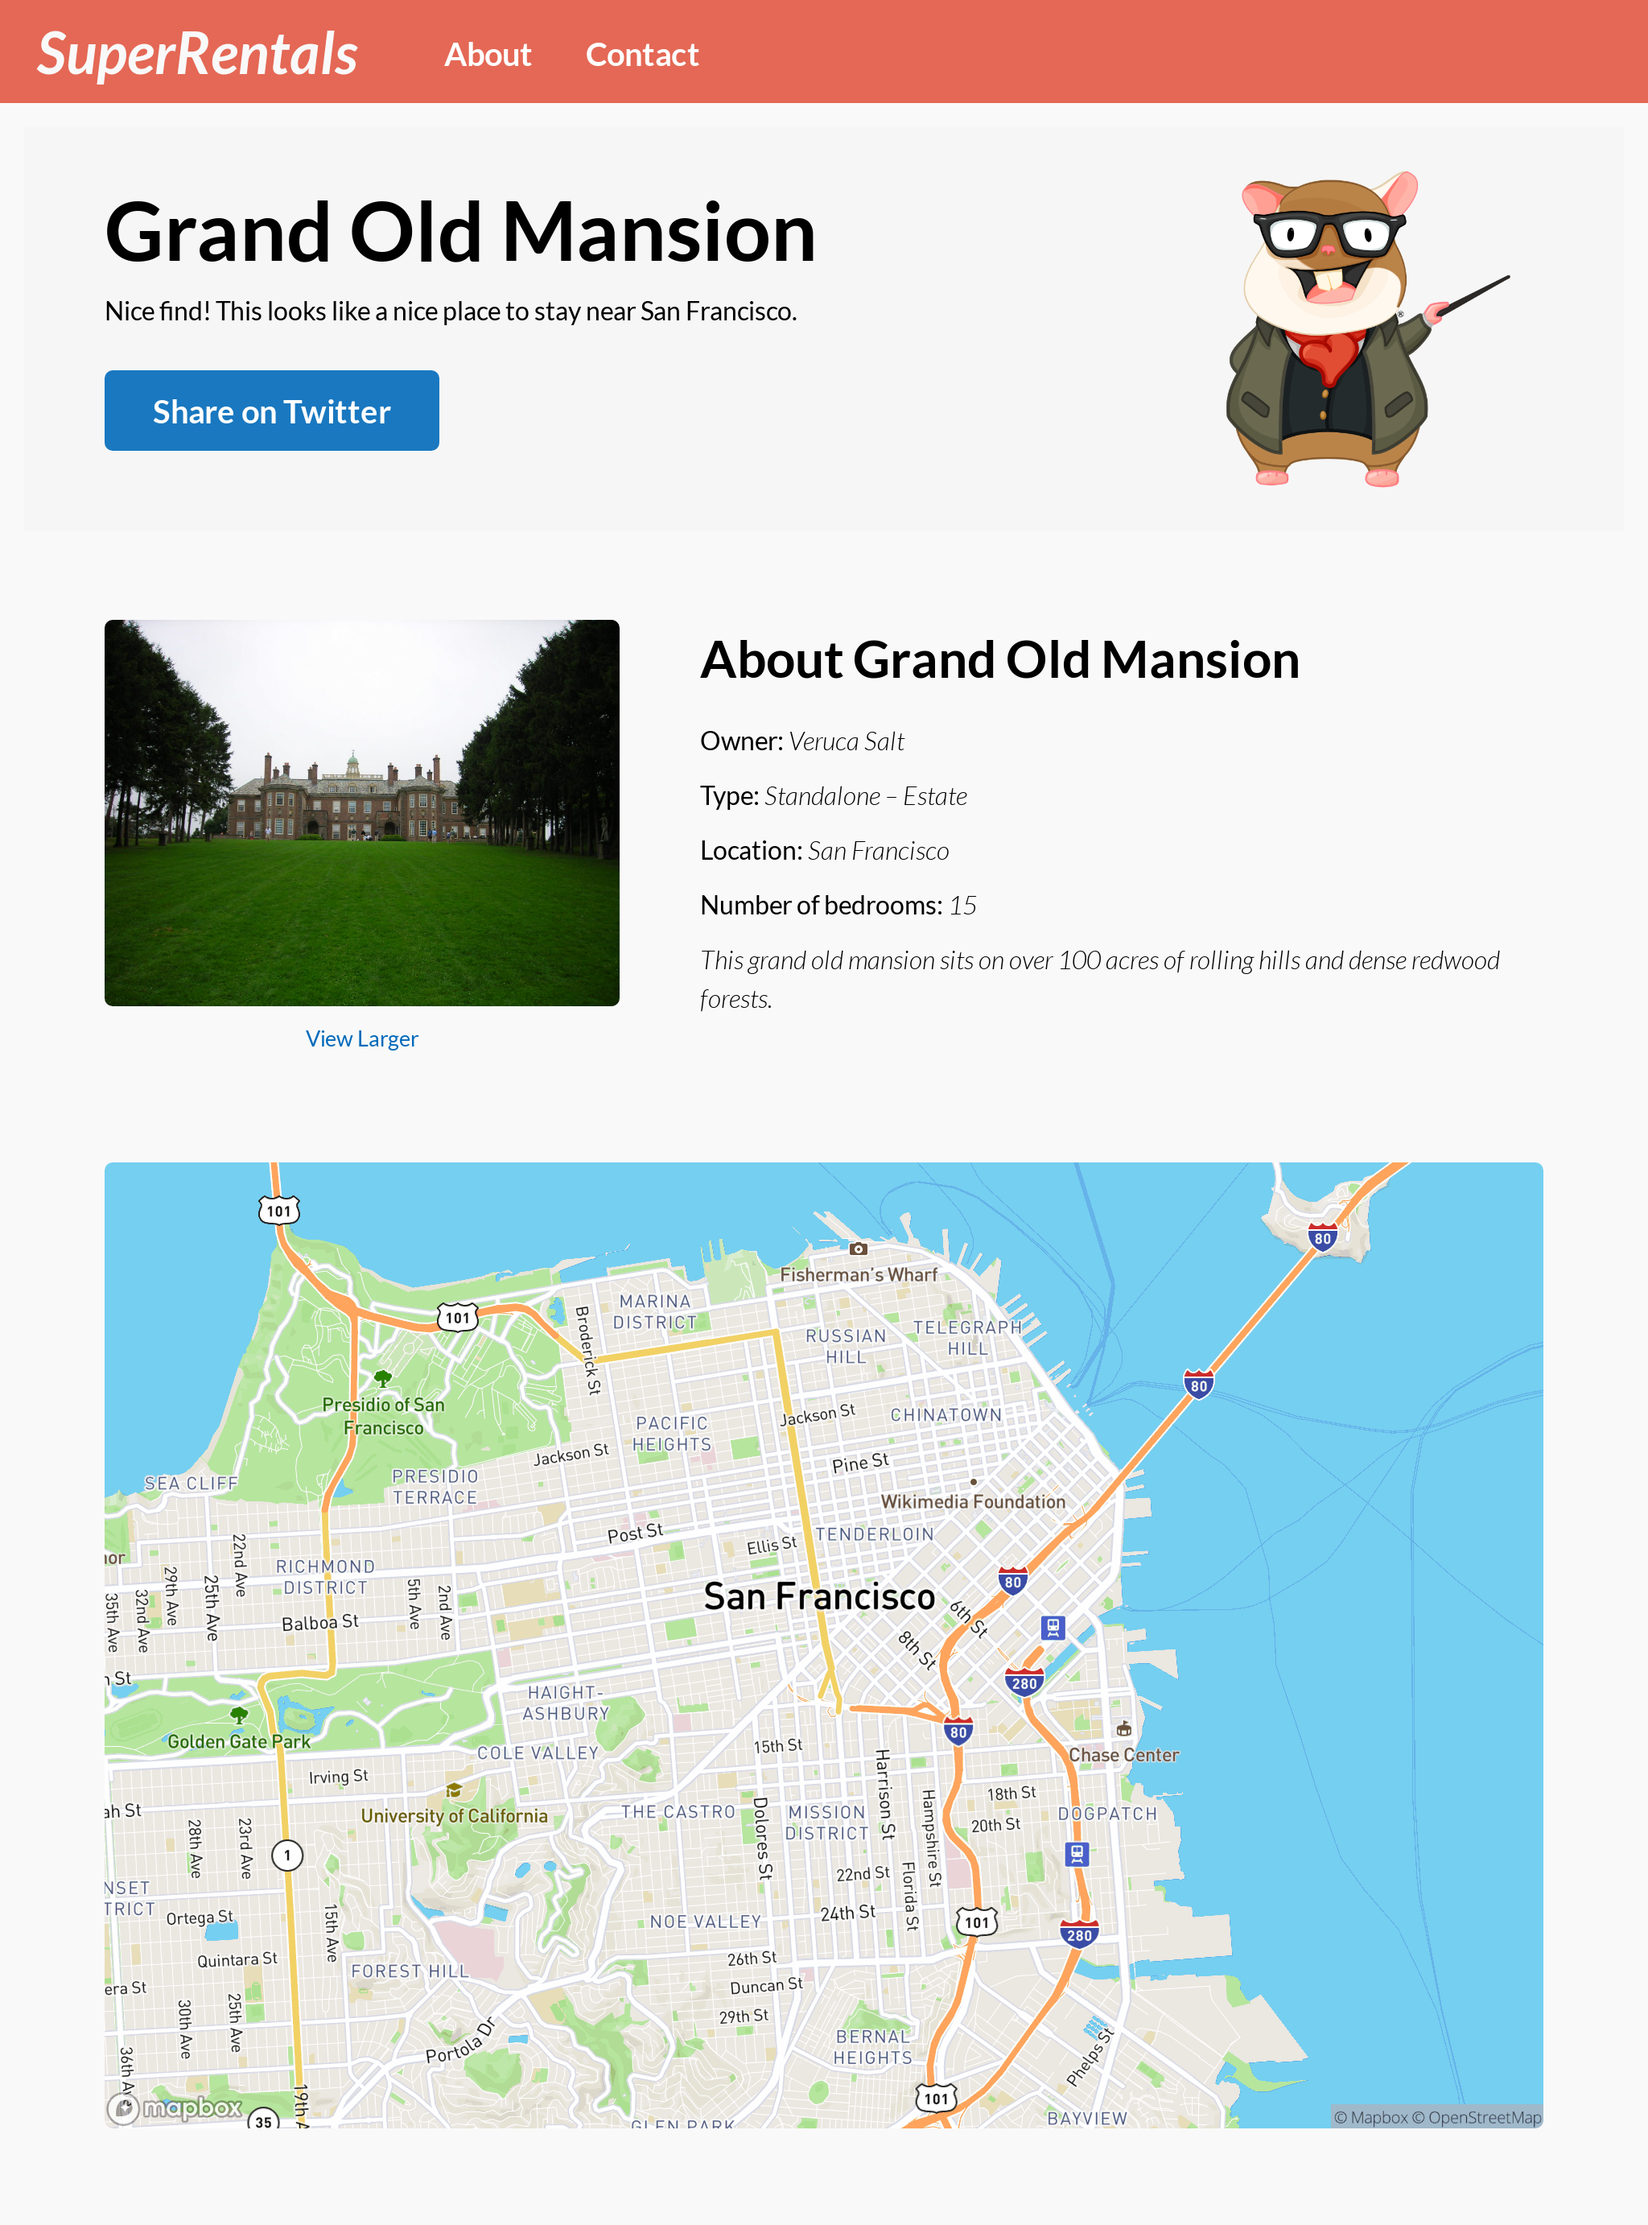
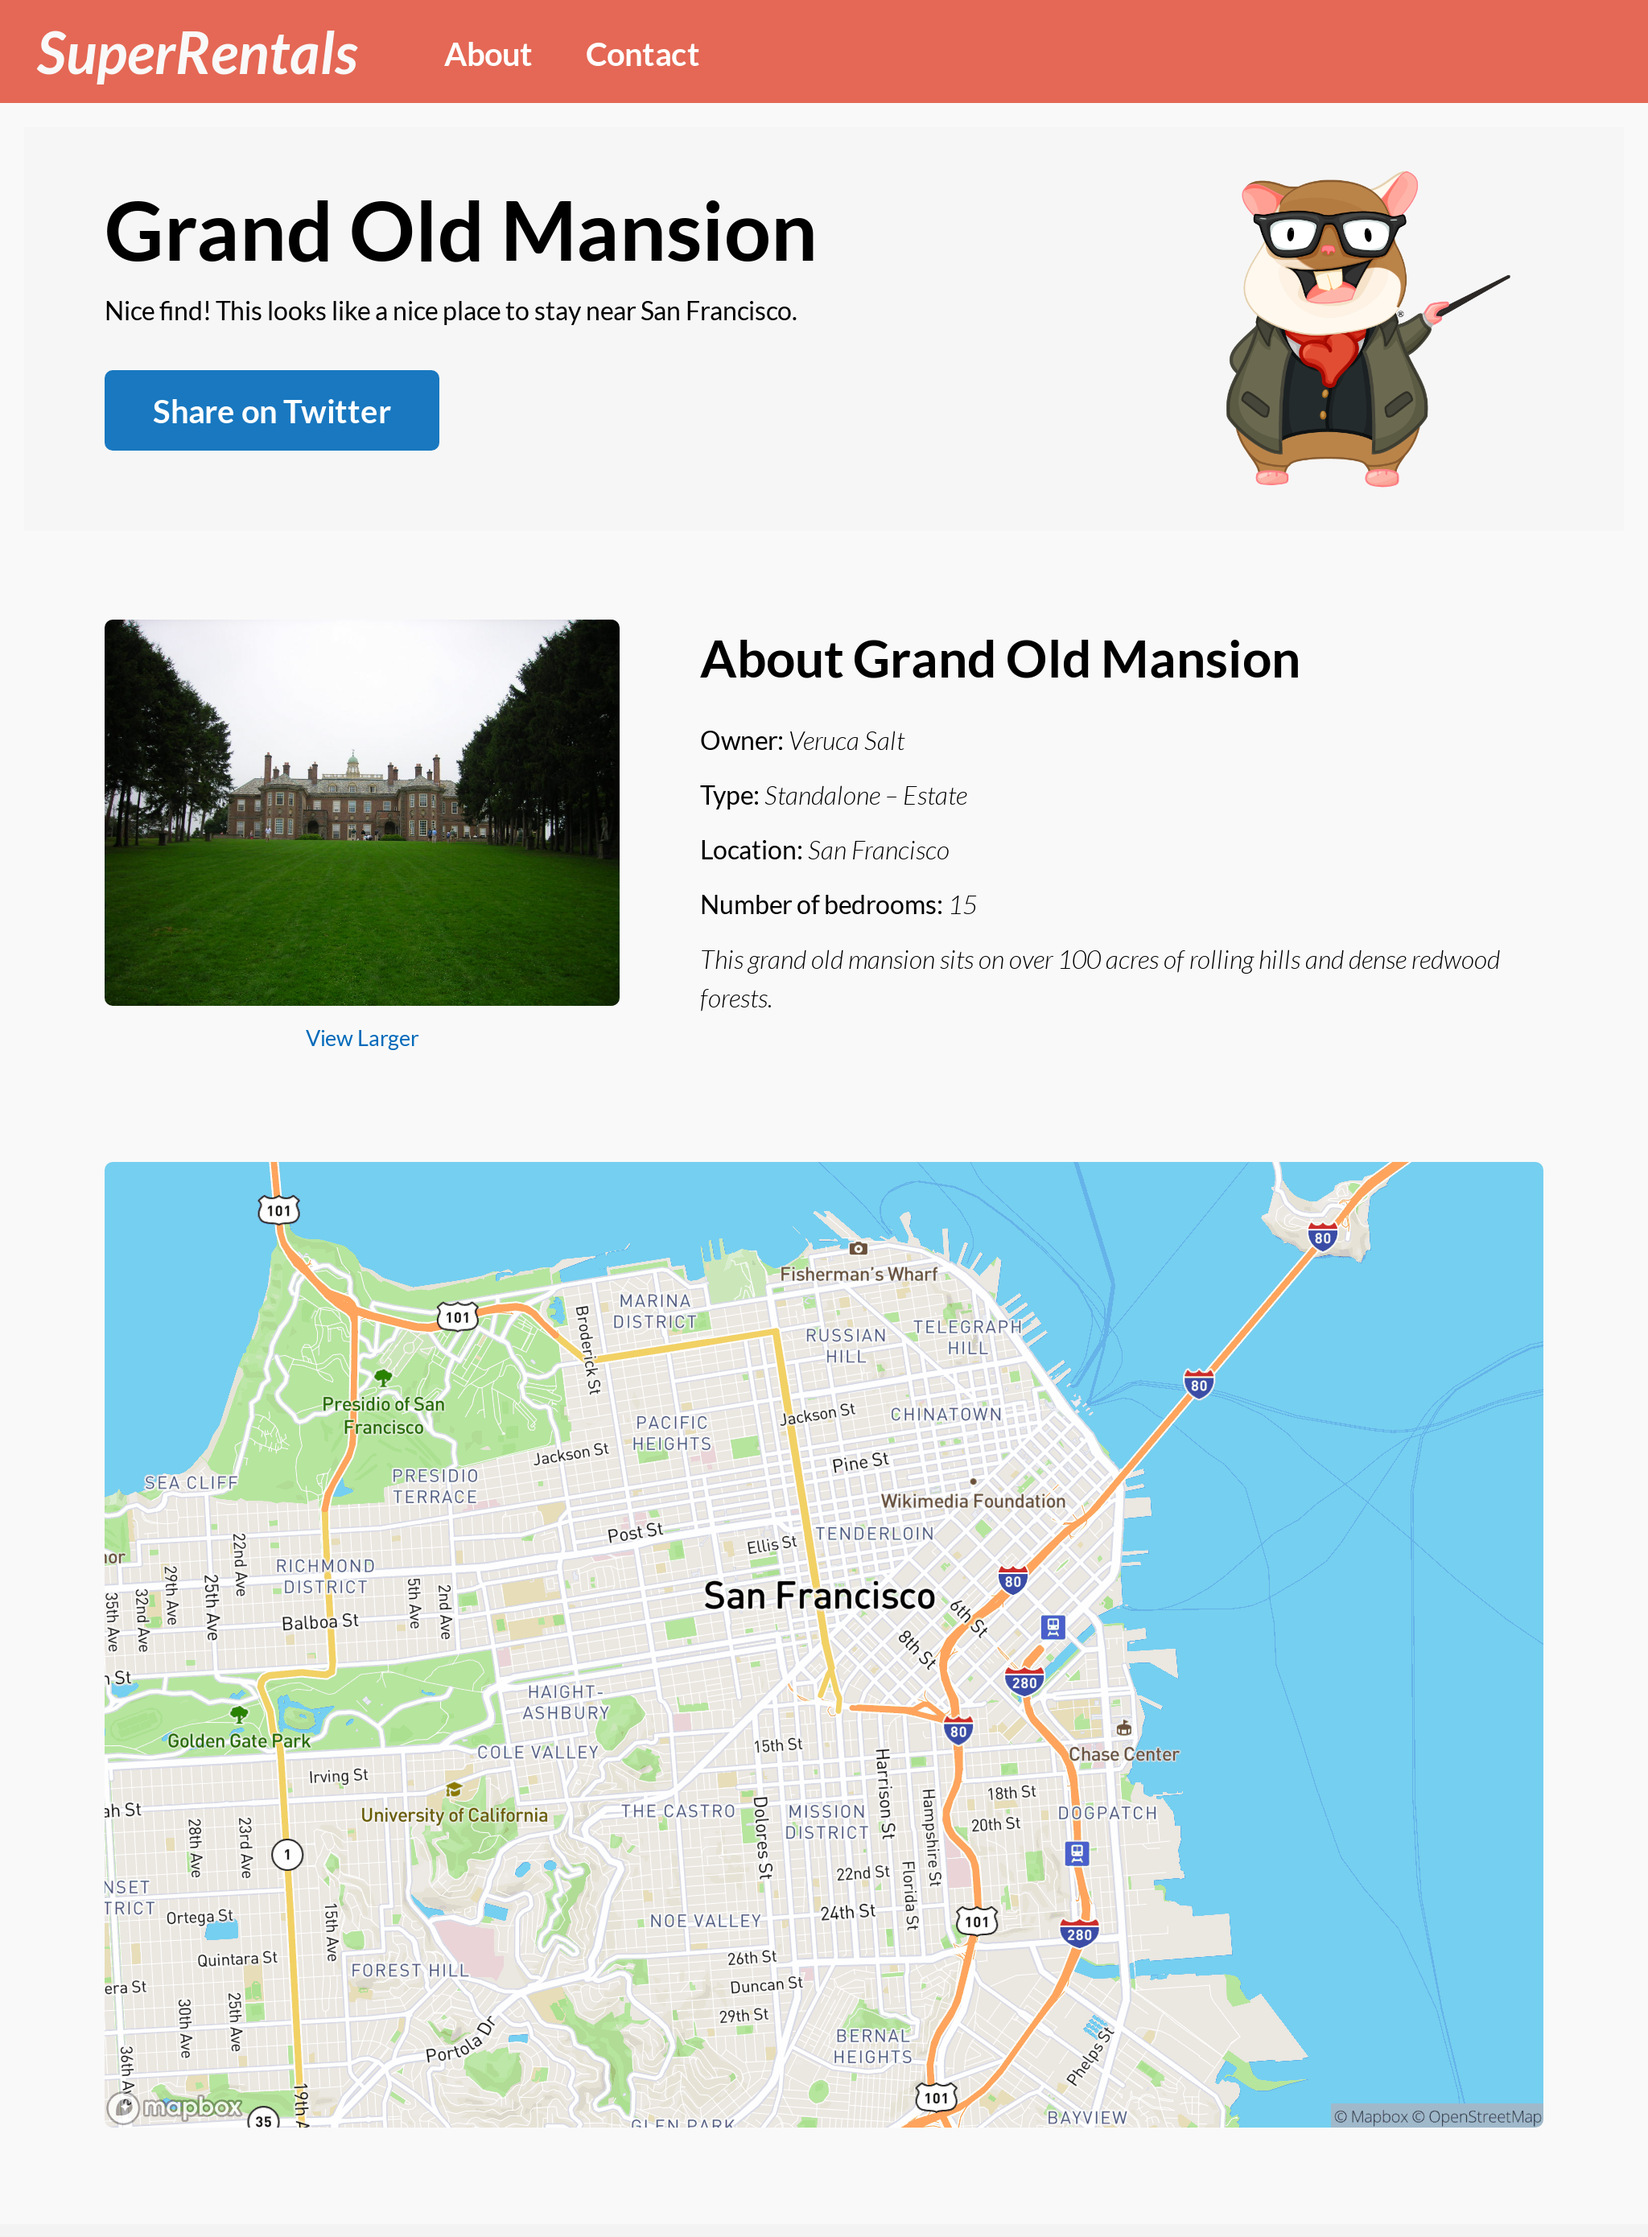
[CRON] Monday Sep 11, 2023
---

Commit:  ember-learn/super-rentals-tutorial@1660a1a3013326b46e0416d5a563510c499033d0
Script:  https://github.com/ember-learn/super-rentals-tutorial/blob/1660a1a3013326b46e0416d5a563510c499033d0/.github/workflows/build.yml
Logs:    https://github.com/ember-learn/super-rentals-tutorial/commit/1660a1a3013326b46e0416d5a563510c499033d0/checks

diff --git a/guides/release/tutorial/part-2/service-injection.md b/guides/release/tutorial/part-2/service-injection.md
@@ -4,7 +4,7 @@ As promised, we will now work on implementing the share button!
 
 <!-- TODO: make this a gif instead -->
 
-<img src="/images/tutorial/part-2/service-injection/share-button@2x.png" alt="The working share button by the end of the chapter" width="1024" height="1382">
+<img src="/images/tutorial/part-2/service-injection/share-button@2x.png" alt="The working share button by the end of the chapter" width="1024" height="1390">
 
 While adding the share button, you will learn about:
 
@@ -174,7 +174,7 @@ Let's put this component to use by invoking it from the `<Rental::Detailed>` com
 
 With that, we should have a working share button!
 
-<img src="/images/tutorial/part-2/service-injection/share-button@2x.png" alt="A share button that works!" width="1024" height="1382">
+<img src="/images/tutorial/part-2/service-injection/share-button@2x.png" alt="A share button that works!" width="1024" height="1390">
 
 <div class="cta">
   <div class="cta-note">
